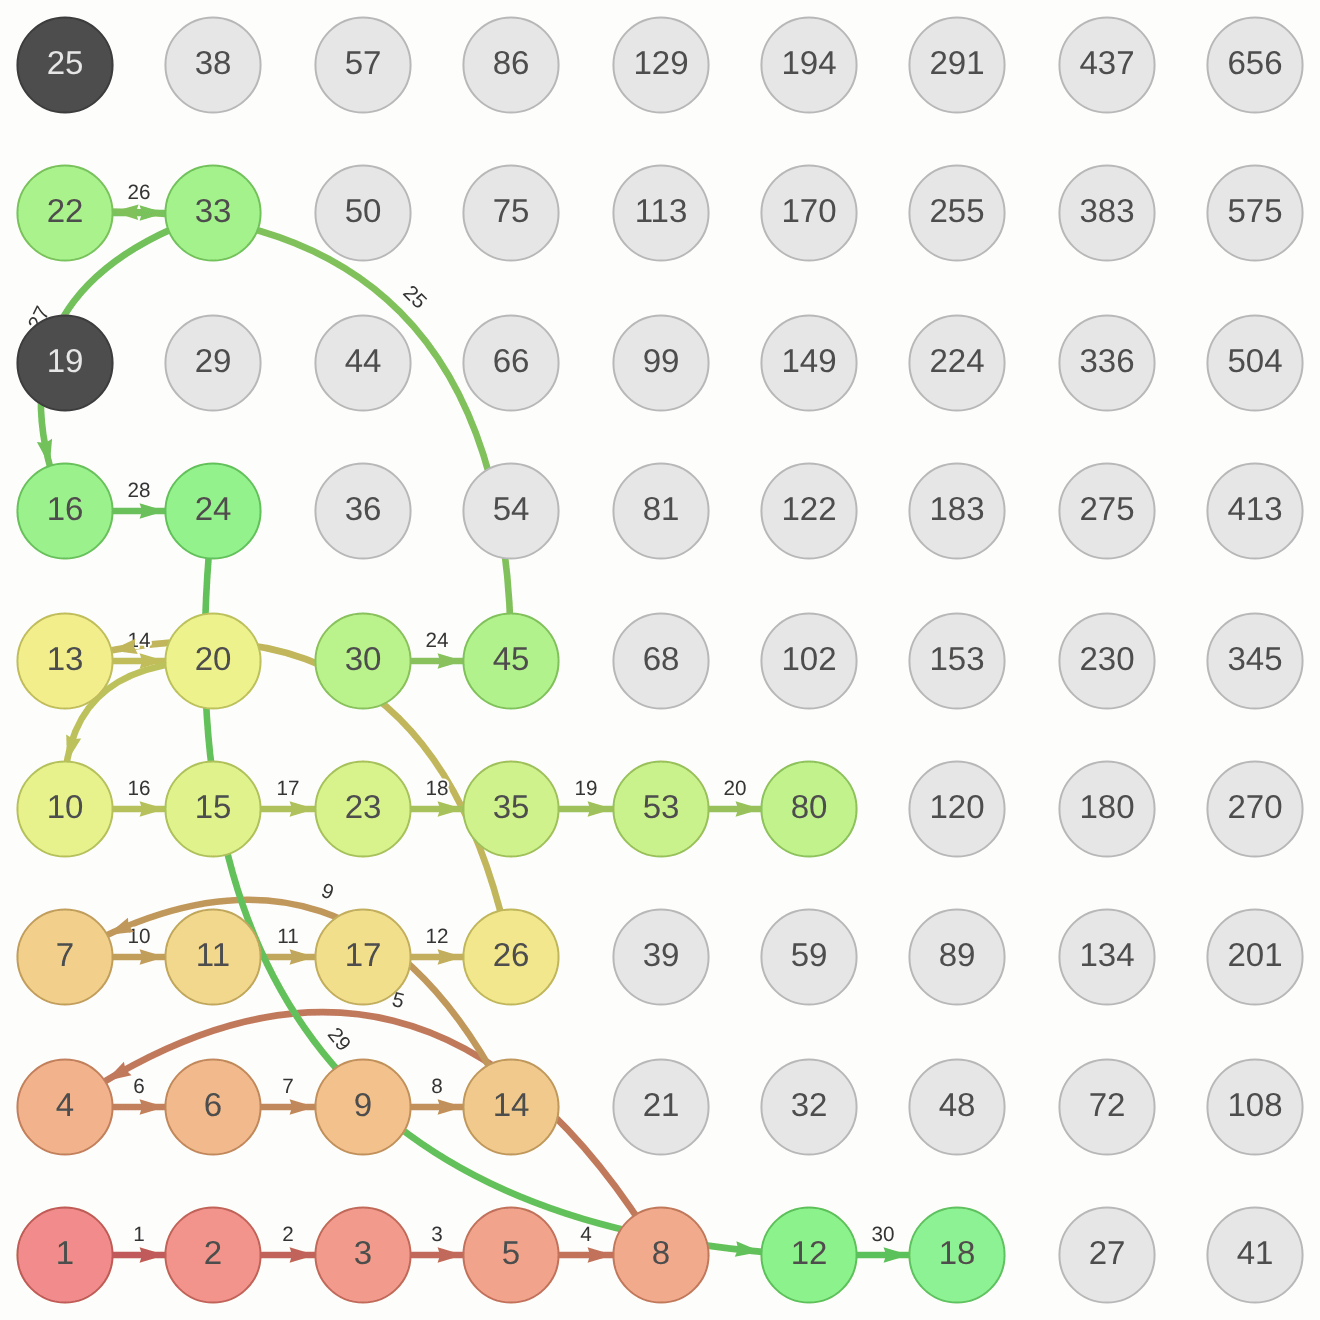
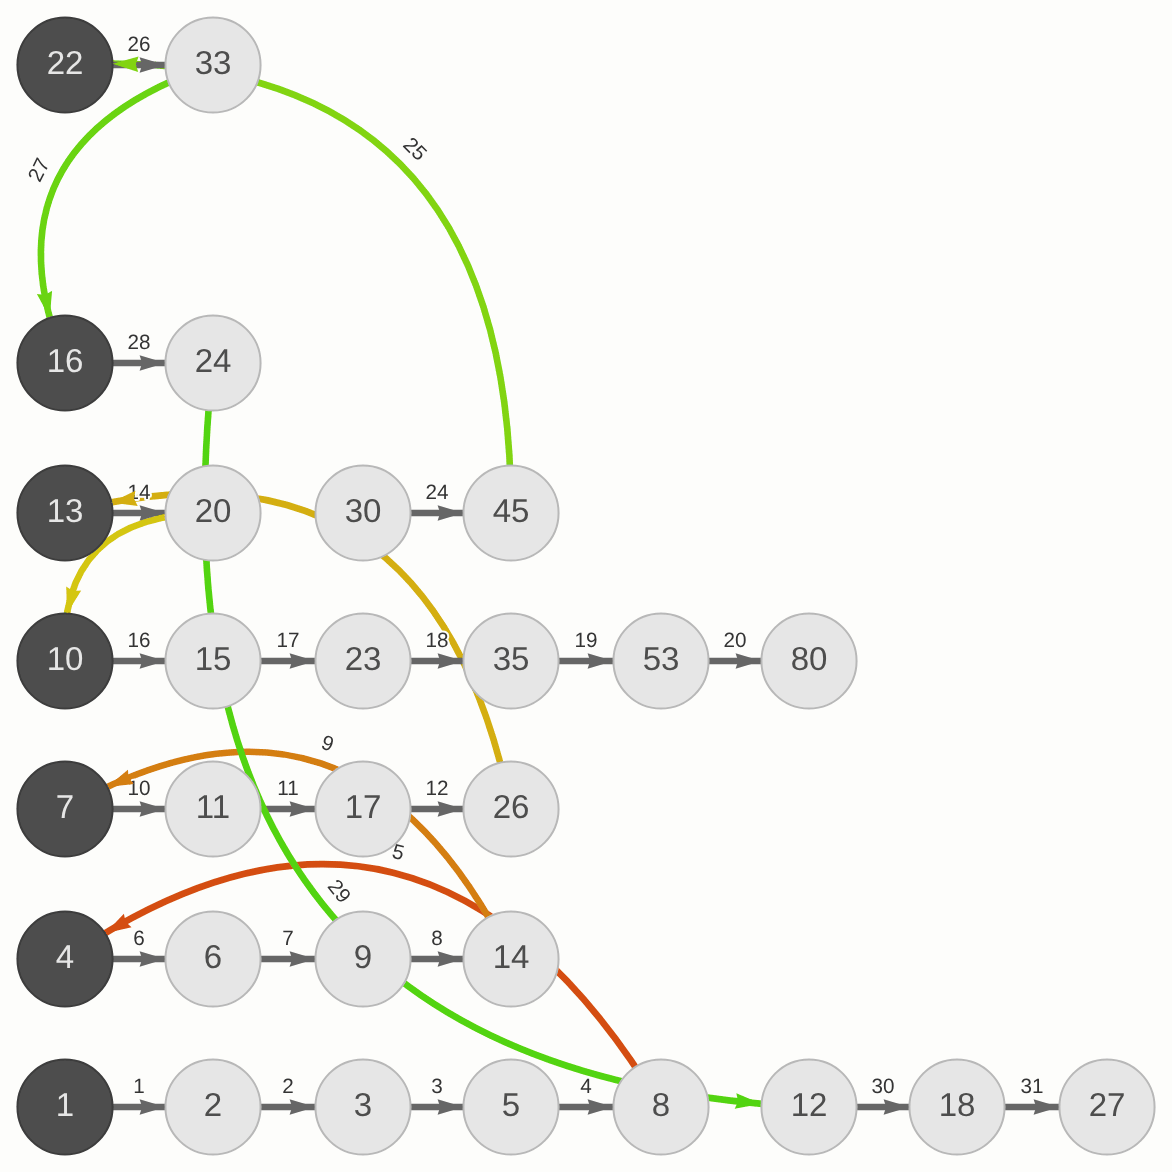
Rosary paper: Figure 9 like Figure 8, with the told beads only; the top picture says where it comes from

diff --git a/figures/jane-s-rosary/deconstructed.html b/figures/jane-s-rosary/deconstructed.html
@@ -47,6 +47,8 @@
         // P.columns   ['lambex']: write the lambda exponent under each column
         // P.color     ['none', 'position', 'label', 'height', 'reluctant_inv']
         // P.arrows     ['no', 'yes', 'labelled']
+        // P.hide       ['untold']: with a count of moves in P.n, the beads that
+        //              are not told yet are not drawn
         // P.ink        ['down']: with ordering=reluctant, the up moves are
         //              drawn in one plain color and only the down moves
         //              are colored, in the order of the moves
@@ -199,6 +201,10 @@
 
             static nodes(x, y) {
                 let node_id = this.lambexes*x + y
+                if (P.hide == 'untold' && this.n != 0
+                        && this.reluctant_invs[node_id] >= this.n) {
+                    return []
+                }
                 return [{
                     id: '' + node_id,
                     shape: 'circle',

diff --git a/arxiv/jane-s-rosary/build.py b/arxiv/jane-s-rosary/build.py
@@ -87,7 +87,8 @@ KEPT_EPIGRAPH = "Bartleby"
 
 TEASER = (
     "![](images/reluctant-jane-1024x422.png)\n\n"
-    "> Reluctant Jane at work (a detail of Figure 8).\n\n"
+    "> Reluctant Jane at work (a detail of a figure of the first version of this "
+    "paper, in which the beads were counted from $0$).\n\n"
 )
 
 HEADER = r"""

diff --git a/content/posts/2022-12-02-jane-s-infinite-rosary/index.md b/content/posts/2022-12-02-jane-s-infinite-rosary/index.md
@@ -33,7 +33,7 @@ categories:
 
 ![](images/reluctant-jane-1024x422.png)
 
-> Reluctant Jane at work (a detail of Figure 8).
+> Reluctant Jane at work (a detail of a figure of the first version of this paper, in which the beads were counted from $0$).
 
 Jane owns a special rosary. It has a single end and is made of infinitely many
 black and white beads. Starting from the end, the beads are numbered
@@ -823,9 +823,9 @@ except possibly for the path Jane is currently descending.
 is injective, and it never creates a gap in an up-chain: for every $i$ and
 every white bead $w \in T_i$, we have $w\lambda \in T_i$.
 
-[![Figure 9](images/figure-09.png)](https://blog.atlant.is/figures/jane-s-rosary/deconstructed.html?n=31&width=9&height=9&ordering=reluctant&label=position&color=reluctant_inv&arrows=labelled&interactive=yes&first=1)
+[![Figure 9](images/figure-09.png)](https://blog.atlant.is/figures/jane-s-rosary/deconstructed.html?n=32&width=9&height=9&ordering=reluctant&label=position&color=none&ink=down&hide=untold&arrows=labelled&interactive=yes&first=1)
 
-> Figure 9: the same after $31$ moves. The beads told so far, in color, fill every row from the left without leaving a hole: this is the no-gap property of [Theorem 2](#theorem-2) ([live version](https://blog.atlant.is/figures/jane-s-rosary/deconstructed.html?n=31&width=9&height=9&ordering=reluctant&label=position&color=reluctant_inv&arrows=labelled&interactive=yes&first=1)).
+> Figure 9: the beads told after $31$ moves, that is, the set $T_{31}$, drawn as in Figure 8. They fill every row from the left without leaving a hole: this is the no-gap property of [Theorem 2](#theorem-2) ([live version](https://blog.atlant.is/figures/jane-s-rosary/deconstructed.html?n=32&width=9&height=9&ordering=reluctant&label=position&color=none&ink=down&hide=untold&arrows=labelled&interactive=yes&first=1)).
 
 *The idea.* Jane is stuck if the bead below her and the bead above her have
 both been told. Suppose she stands on $n$, wants to go up, and finds $nU$

diff --git a/arxiv/jane-s-rosary/to-port.md b/arxiv/jane-s-rosary/to-port.md
@@ -263,10 +263,13 @@ These reach the paper by a rebuild; to look at in the PDF.
       t_0.
 - [ ] Figure 8 is redrawn: black and white beads, up moves as gray
       horizontal arrows, down moves as curved arrows colored in the
-      order of the moves. Figure 9 ("the same after 31 moves") still has
-      colored beads, and the picture at the top of the page ("a detail
-      of Figure 8") is still a crop of the old colored figure: both are
-      to be brought in line or their captions changed.
+      order of the moves. Figure 9 is drawn the same way and shows only
+      the beads told after 31 moves (the set T_31). The picture at the
+      top of the page keeps its old look; its caption now says that it
+      comes from the first version of the paper (the paper build removes
+      that picture, and the sentence it looks for follows).
+- [ ] When the figures are renumbered, nothing refers to "a detail of
+      Figure 8" any more.
 
 ## To do later, on the page's side (decided 2026-11-21, not started)
 

diff --git a/figures/jane-s-rosary/README.md b/figures/jane-s-rosary/README.md
@@ -18,7 +18,7 @@ Used by the paper, with `janestreet.js`:
 | Page | Shows | Parameters |
 |---|---|---|
 | `rosary.html` | the rosary as a row of beads | `n`, `labels`, `arrows`, `below`, `end`, `string`, `colors`, `interactive` |
-| `deconstructed.html` | the rosary as a grid, one up-chain per row | `n`, `width`, `height`, `ordering`, `label`, `color`, `arrows`, `below`, `columns`, `ink`, `interactive` |
+| `deconstructed.html` | the rosary as a grid, one up-chain per row | `n`, `width`, `height`, `ordering`, `label`, `color`, `arrows`, `below`, `columns`, `ink`, `hide`, `interactive` |
 | `height-plot.html` | plot of the heights of beads | `n` |
 | `irrational-log2-3.html` | multiples of log2(3) on the circle | `n`, `interactive` |
 | `onyx-ordering.html` | the tree of the onyx ordering | `n`, `interactive` |
